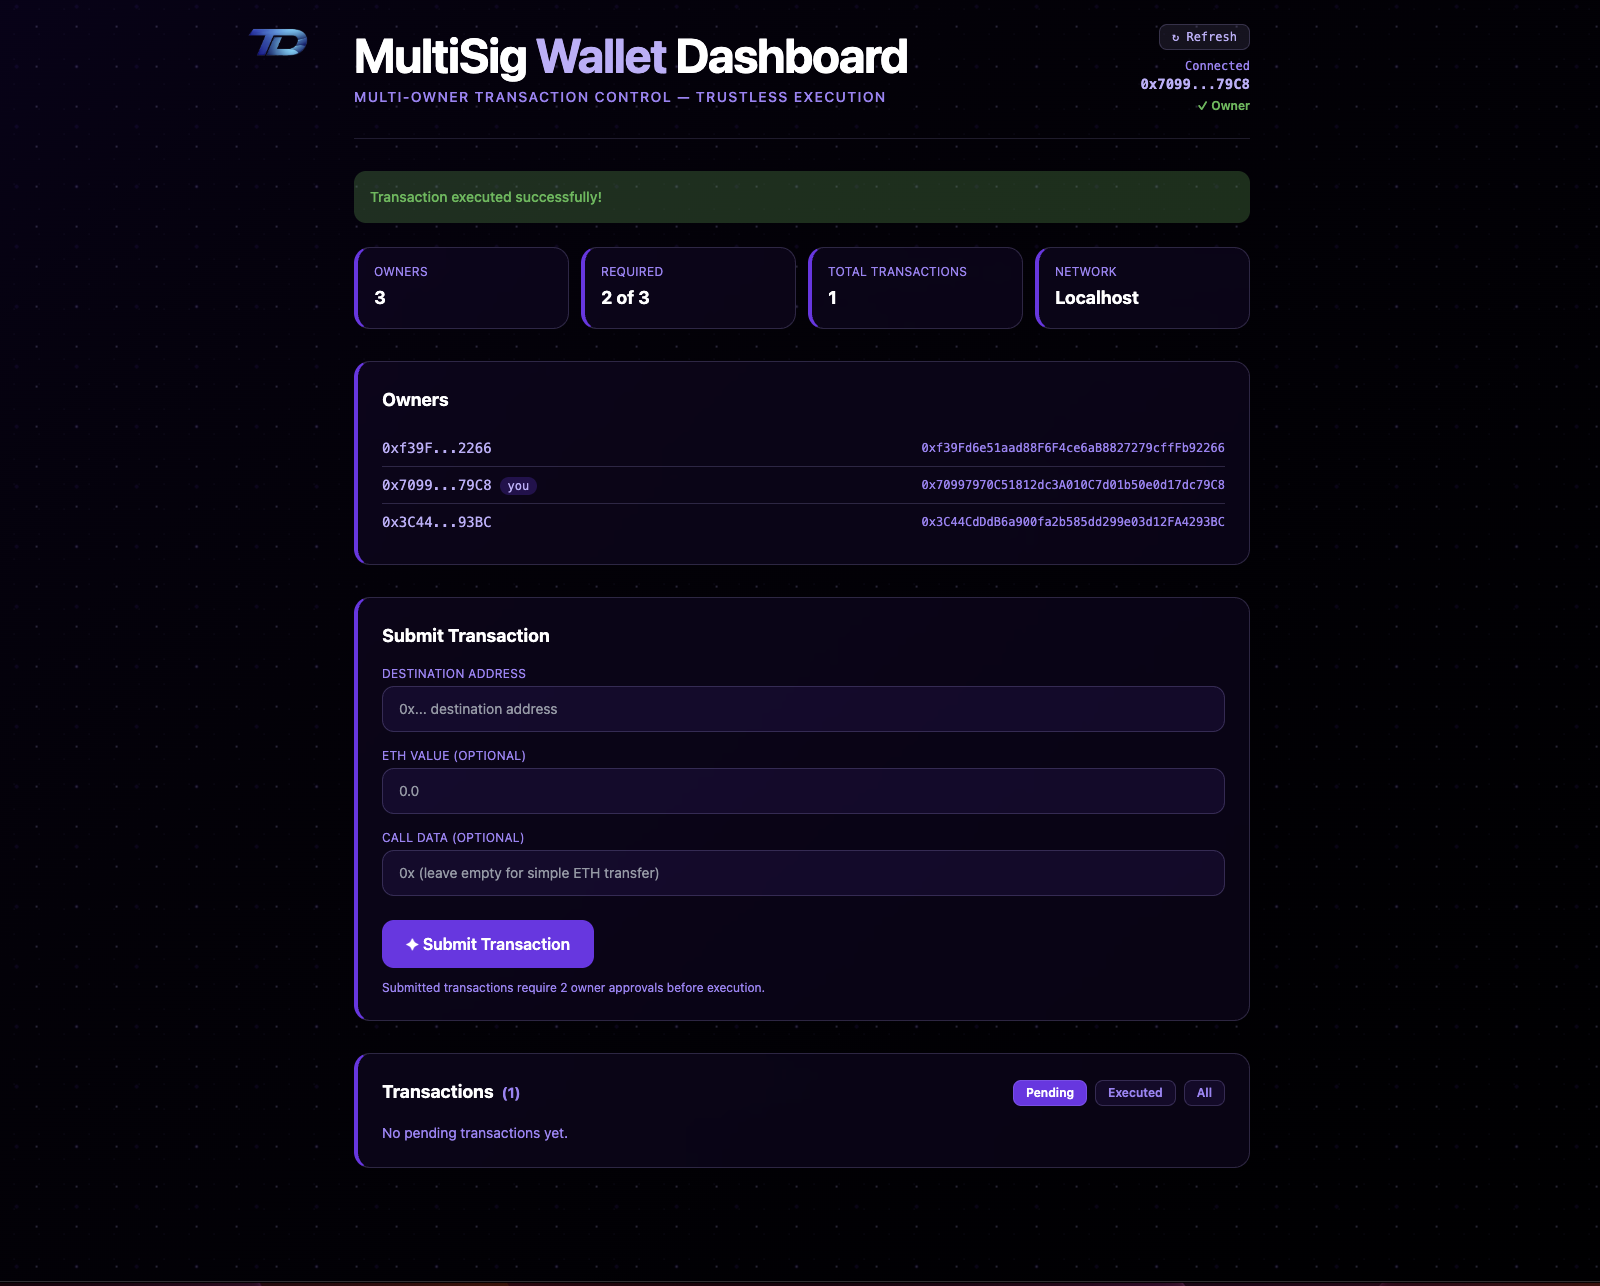
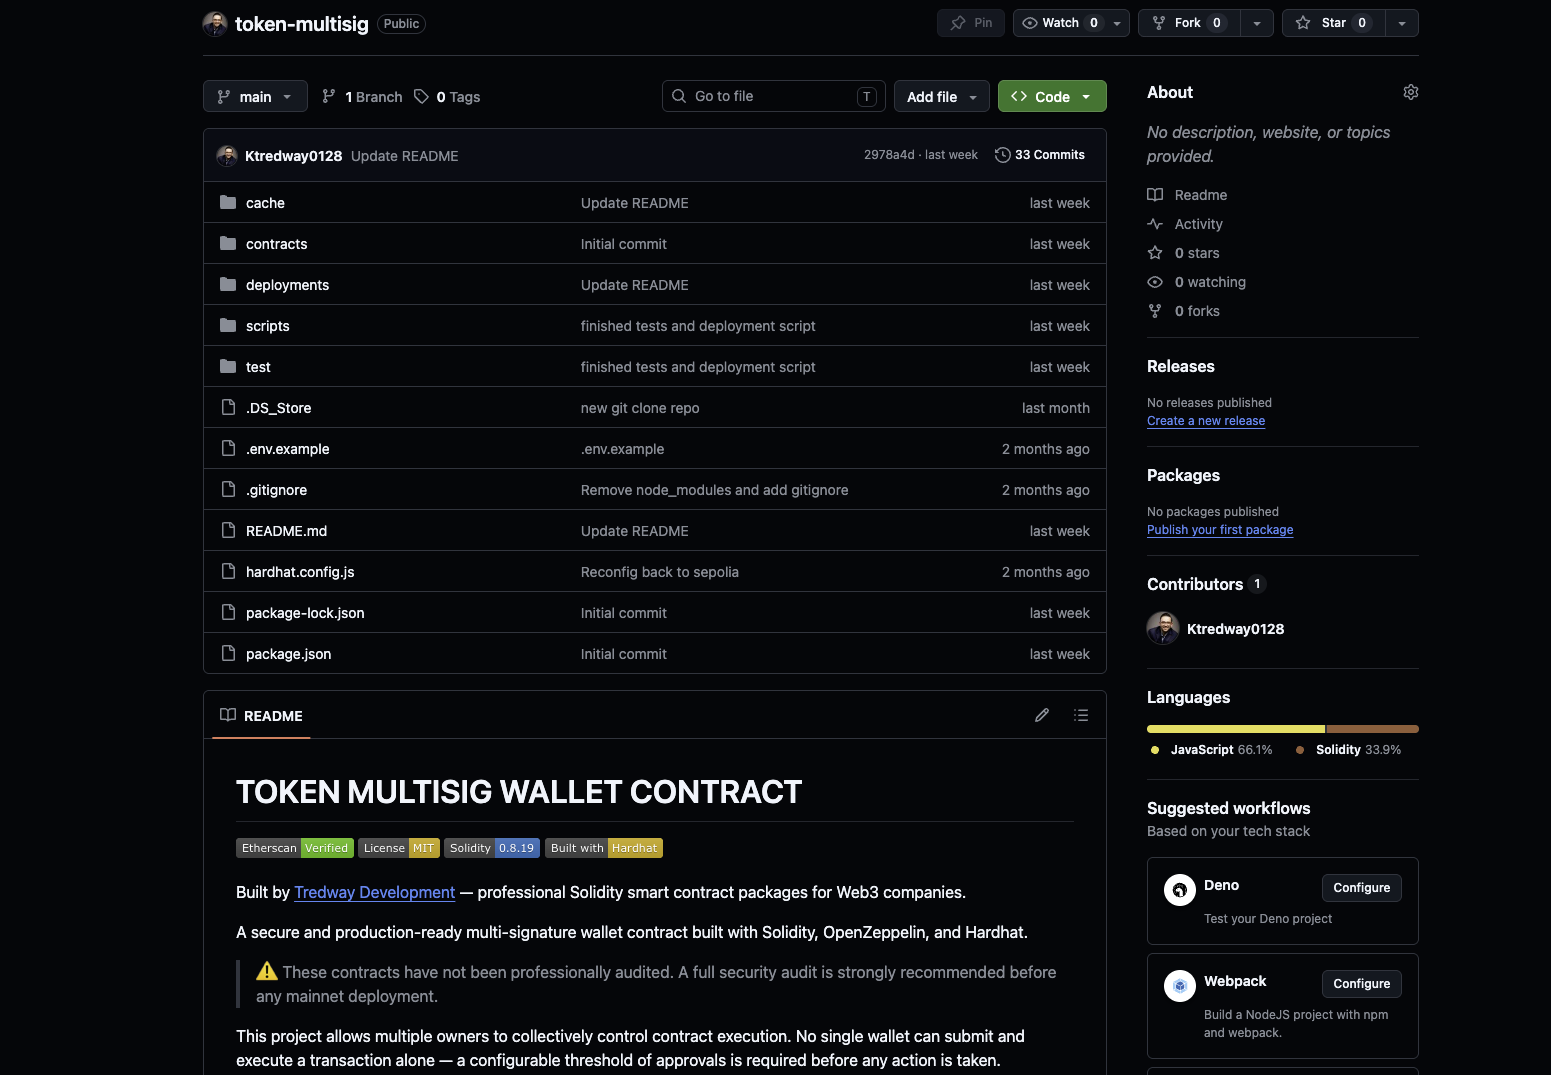
Update projects

diff --git a/index.html b/index.html
@@ -301,30 +301,42 @@
                         <a href="https://www.youtube.com/watch?v=aAjkMi4A8a8" target="_blank" style="display:block;text-align:center;margin-top:8px;font-size:13px;color:#4B2E2A;opacity:0.8;text-decoration:underline;">▶ Watch full demo on YouTube</a>
                     </div>
                 </div>
-            
-            </div>
-            
-            <!-- NFT FEATURED CARD -->
-            <div class="nft-featured-card">
-                <div class="nft-featured-inner">
-                    <div class="nft-featured-left">
-                        <span class="nft-badge">Standalone or Add-On</span>
-                        <h3 class="card-title">NFT Membership Pass</h3>
-                        <p class="card-description">ERC-721 membership pass with three phase minting, Merkle whitelist, configurable supply and pricing, IPFS metadata, and full admin controls</p>
-                        <div class="card-buttons" style="margin-top: 16px;">
-                            <a href="https://nft-membership-dashboard.netlify.app/" target="_blank" class="card-button--site">Dashboard</a>
-                            <a href="https://github.com/Ktredway0128/nft-membership" target="_blank" class="card-button--site">GitHub</a>
-                            <a href="https://sepolia.etherscan.io/address/0xF12215b2156f0E1dB8039d78FBad734b8f2158ac#code" target="_blank" class="card-button--site">Etherscan</a>
-                        </div>
+
+            </div> <!-- end cards-row -->
+
+            <div class="cards-row-2">
+
+                <!-- NFT MEMBERSHIP -->
+                <div class="card small featured-row">
+                    <img src="./img/projects/screenshot-nft.png" alt="NFT Membership Pass">
+                    <h3 class="card-title">NFT Membership Pass</h3>
+                    <p class="card-description">ERC-721 membership pass with three phase minting, Merkle whitelist, configurable supply and pricing, and full admin controls</p>
+                    <div class="card-buttons">
+                        <a href="https://nft-membership-dashboard.netlify.app/" target="_blank" class="card-button--site">Dashboard</a>
+                        <a href="https://github.com/Ktredway0128/nft-membership" target="_blank" class="card-button--site">GitHub</a>
+                        <a href="https://sepolia.etherscan.io/address/0xF12215b2156f0E1dB8039d78FBad734b8f2158ac#code" target="_blank" class="card-button--site">Etherscan</a>
                     </div>
-                    <div class="nft-featured-right">
-                        <div class="card-video">
-                            <iframe width="100%" src="https://www.youtube.com/embed/bZO3Xs7fzys" frameborder="0" allow="accelerometer; autoplay; clipboard-write; encrypted-media; gyroscope; picture-in-picture; web-share" allowfullscreen></iframe>
-                            <a href="https://www.youtube.com/watch?v=bZO3Xs7fzys" target="_blank" style="display:block;text-align:center;margin-top:8px;font-size:13px;color:#4B2E2A;opacity:0.8;text-decoration:underline;">▶ Watch full demo on YouTube</a>
-                        </div>
+                    <div class="card-video">
+                        <iframe width="100%" height="180" src="https://www.youtube.com/embed/bZO3Xs7fzys" frameborder="0" allow="accelerometer; autoplay; clipboard-write; encrypted-media; gyroscope; picture-in-picture; web-share" allowfullscreen></iframe>
+                        <a href="https://www.youtube.com/watch?v=bZO3Xs7fzys" target="_blank" style="display:block;text-align:center;margin-top:8px;font-size:13px;color:#4B2E2A;opacity:0.8;text-decoration:underline;">▶ Watch full demo on YouTube</a>
                     </div>
                 </div>
-            </div>
+
+                <!-- ERC-4337 SMART ACCOUNT -->
+                <div class="card small featured-row">
+                    <img src="./img/projects/screenshot smart-account.png" alt="ERC-4337 Smart Account">
+                    <h3 class="card-title">ERC-4337 Smart Account</h3>
+                    <p class="card-description">Complete Account Abstraction system — wallet-as-a-contract, Create2 factory for deterministic deployment, and Paymaster for gas sponsorship</p>
+                    <div class="card-buttons">
+                        <a href="https://github.com/Ktredway0128/smart-account" target="_blank" class="card-button--site">GitHub</a>
+                        <a href="https://sepolia.etherscan.io/address/0xe6223dB0982919e16B442f590f4F7F6d45E69324#code" target="_blank" class="card-button--site">Factory</a>
+                        <a href="https://sepolia.etherscan.io/address/0x22D05F39E260b9fDE64d3FFa86E8f494Cfe9C396#code" target="_blank" class="card-button--site">Paymaster</a>
+                    </div>
+                    <p class="card-description" style="margin-top: 12px; font-size: 12px; opacity: 0.7;">Dashboard coming soon</p>
+                </div>
+
+            </div> <!-- end cards-row-2 -->
+
         </section>
 
         <!-- PACKAGES -->

diff --git a/css/resume.css b/css/resume.css
@@ -1281,3 +1281,38 @@ p {
     border: 1px solid rgba(255, 255, 255, 0.3);
     box-shadow: 0 4px 16px rgba(0, 0, 0, 0.3);
 }
+
+.cards-row-2 {
+    display: grid;
+    grid-template-columns: repeat(2, 1fr);
+    gap: 24px;
+    margin-top: 24px;
+}
+
+.card.featured-row {
+    background: #4B2E2A;
+    border: 1px solid #4B2E2A;
+}
+
+.card.featured-row .card-title {
+    color: #e6dbc7;
+}
+
+.card.featured-row .card-description {
+    color: #e6dbc7;
+}
+
+.card.featured-row .card-button--site {
+    background: #e6dbc7 !important;
+    color: #4B2E2A !important;
+}
+
+.card.featured-row a[style] {
+    color: #e6dbc7 !important;
+}
+
+.cards-row-2 .card.featured-row .card-button--site {
+    background: #e6dbc7 !important;
+    color: #4B2E2A !important;
+}
+